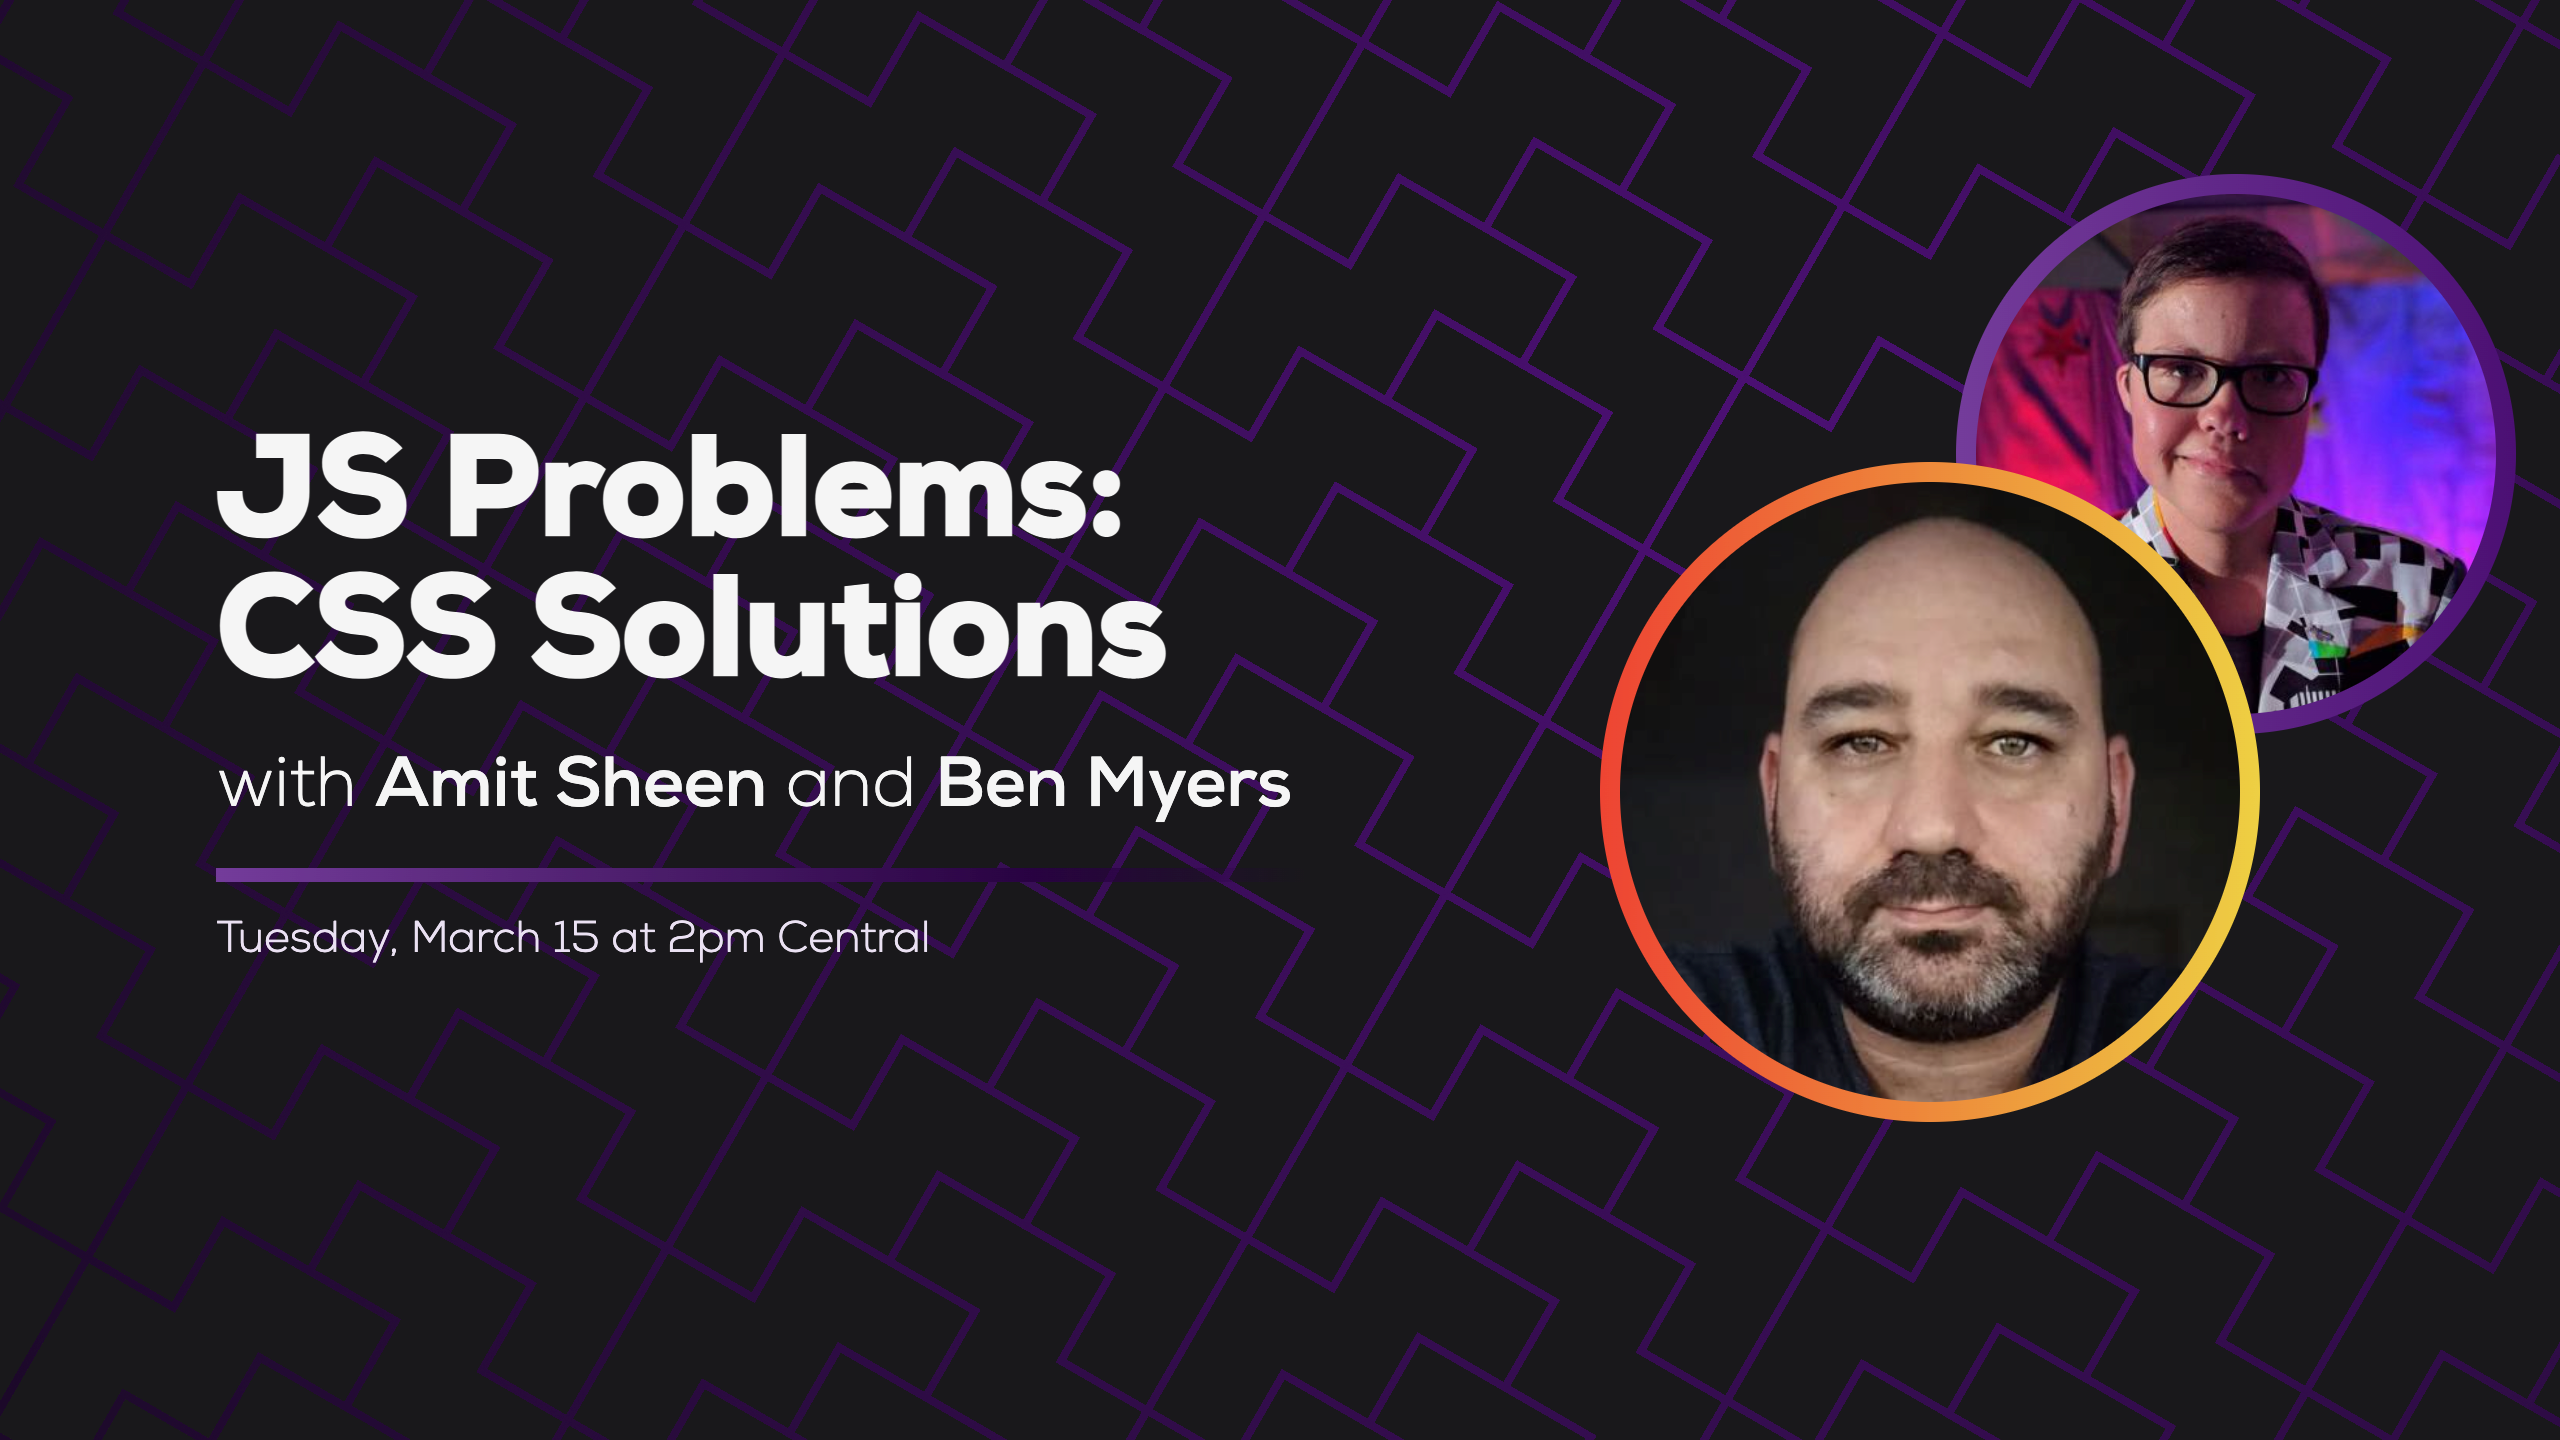
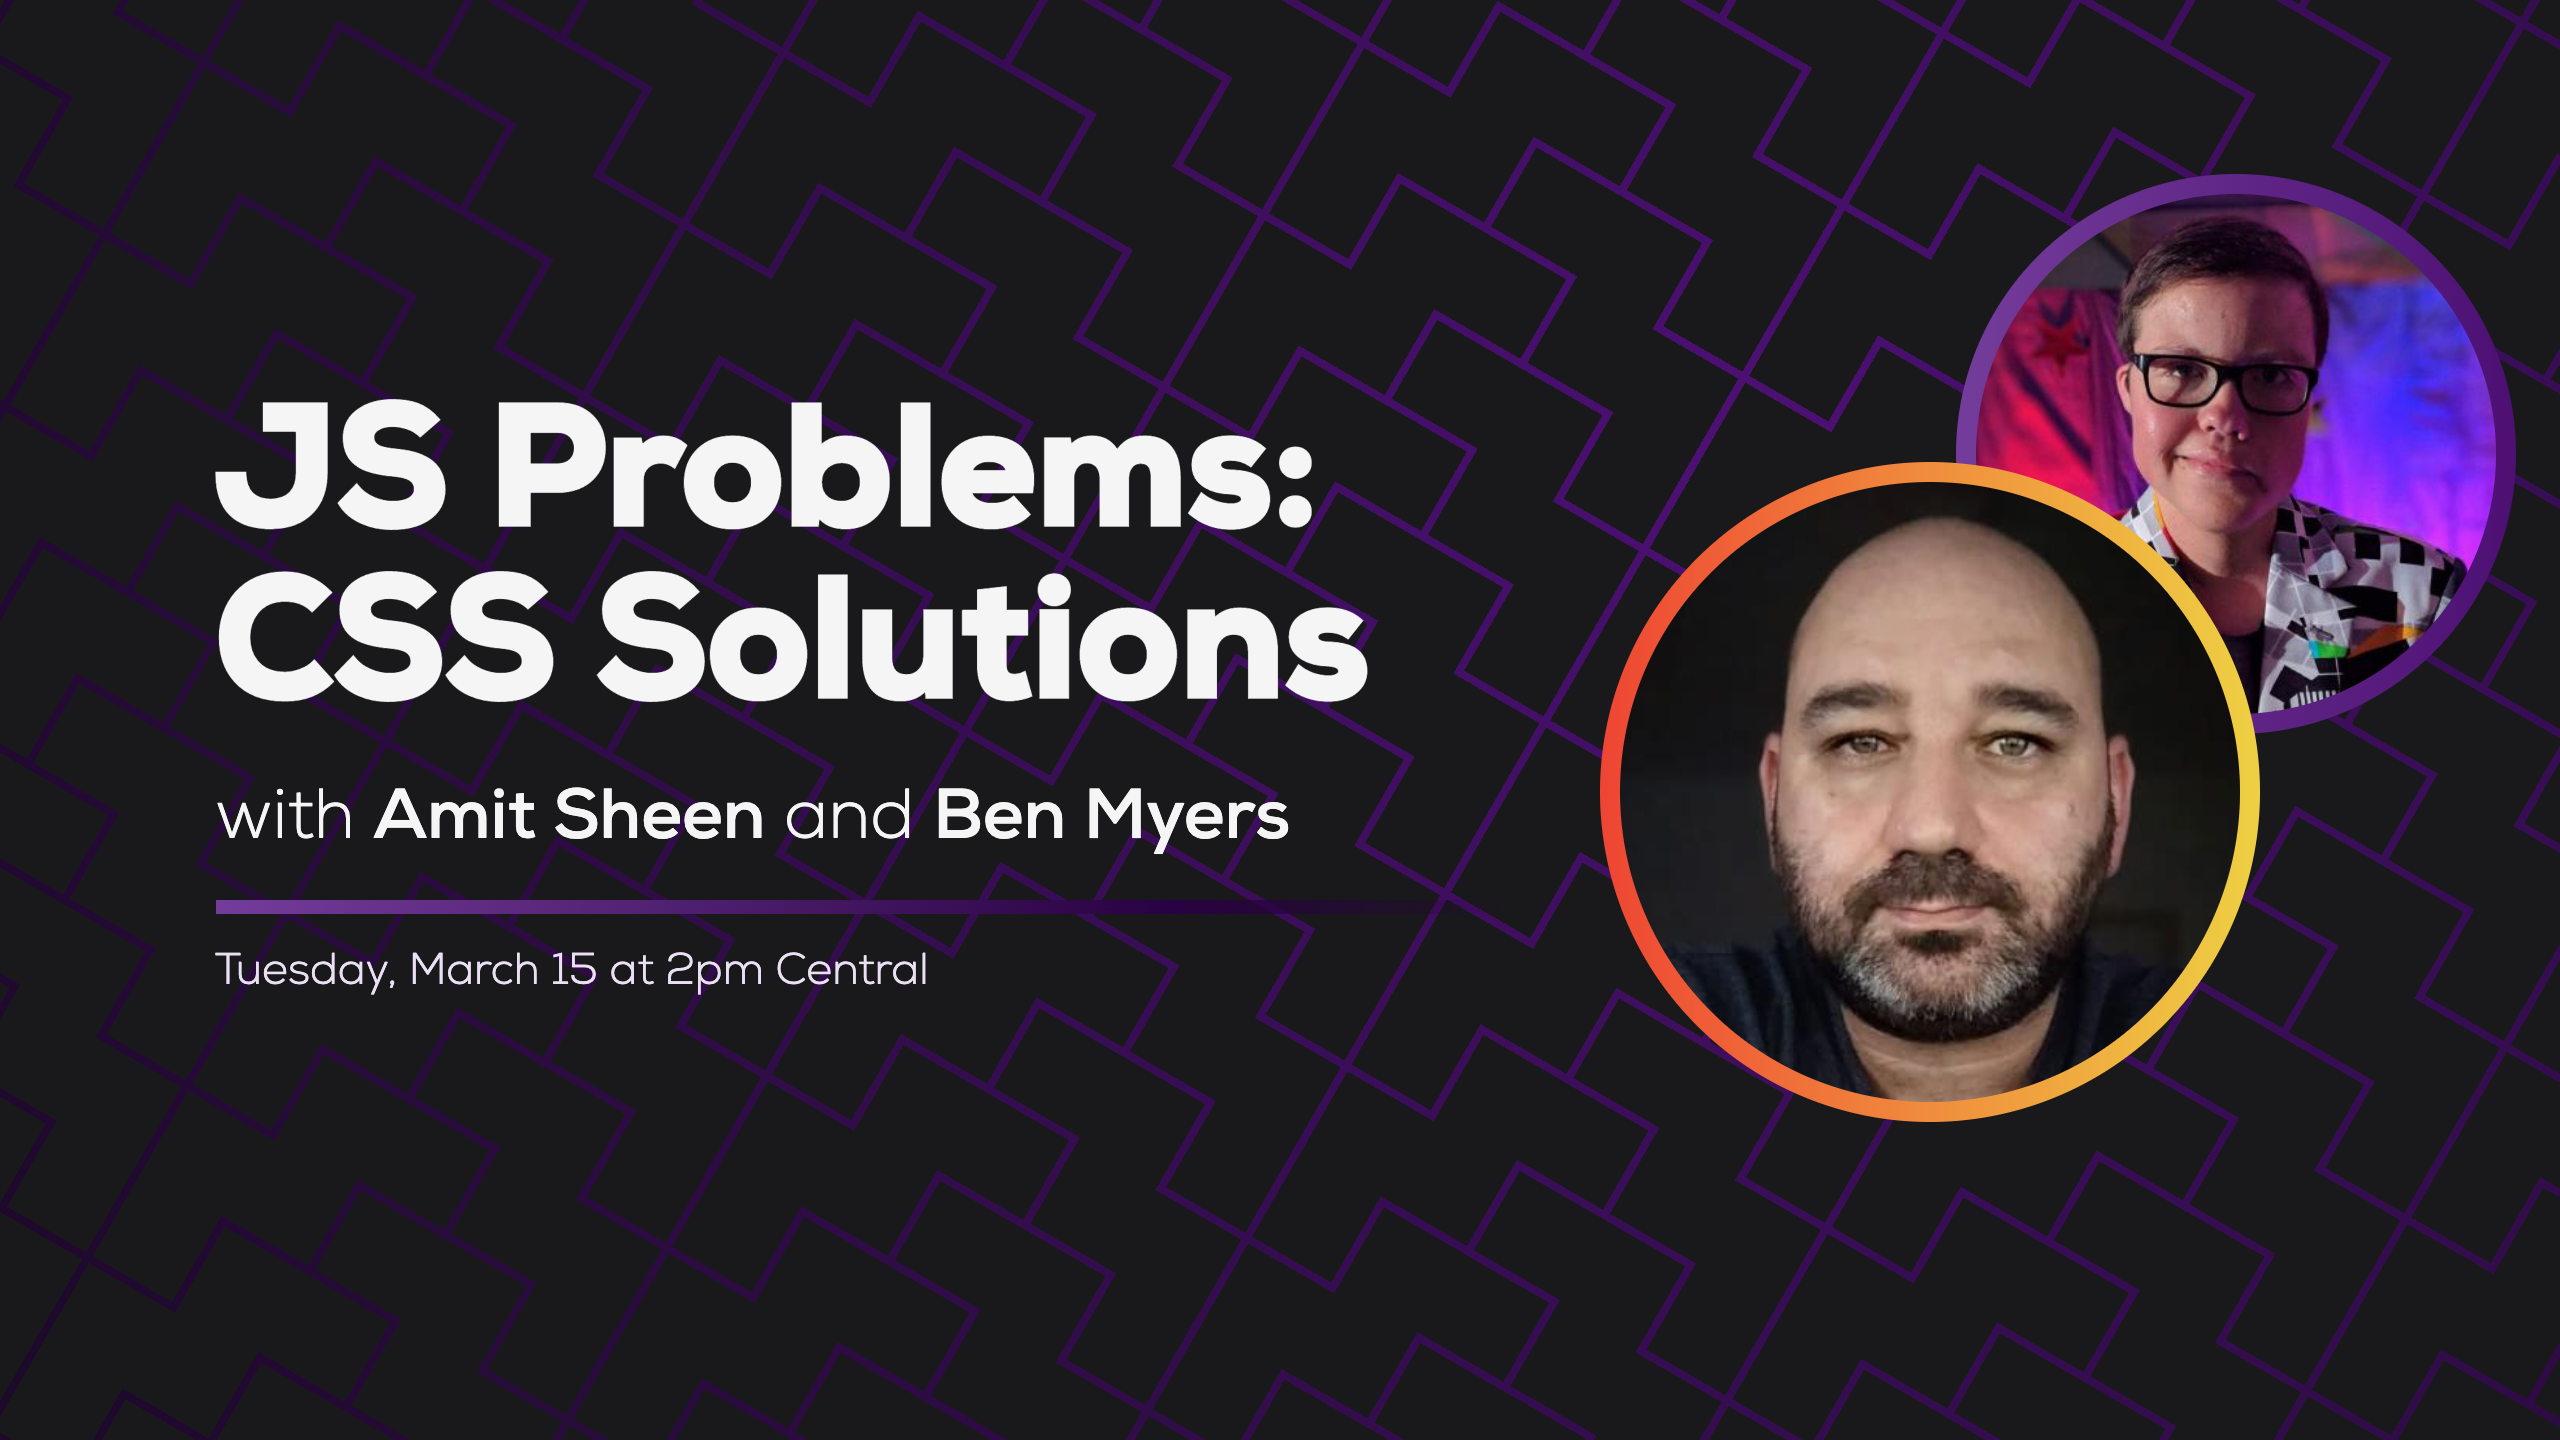
Add Chris Ferdinandi's Minesweeper stream

Changed region(s): [[0.0625, 0.2812, 0.5312, 0.5], [0.0625, 0.5312, 0.5, 0.6875]]

diff --git a/src/thumbnail.html b/src/thumbnail.html
@@ -136,12 +136,12 @@
 <body>
 	<div class="flex">
 		<header>
-			<h1>Build Design Systems<br/>with Web Components</h1>
-			<p id="hosts">with <b>m4dz</b> and <b>Ben Myers</b></p>
-			<footer>Tuesday, May 31 at 2pm Central</footer>
+			<h1>Accessible<br/>Minesweeper</h1>
+			<p id="hosts">with <b>Chris Ferdinandi</b> and <b>Ben Myers</b></p>
+			<footer>Tuesday, May 10 at 2pm Central</footer>
 		</header>
 		<main>
-			<img id="avatar-1" src="{{ 'm4dz' | avatar: profiles }}" alt="" />
+			<img id="avatar-1" src="{{ 'Chris Ferdinandi' | avatar: profiles }}" alt="" />
 			<div class="ring"></div>
 			<img id="avatar-2" src="{{ 'Ben Myers' | avatar: profiles }}" alt="" />
 			<div class="ring"></div>

diff --git a/src/streams/2022-05-10-minesweeper.md b/src/streams/2022-05-10-minesweeper.md
@@ -1,0 +1,22 @@
+---
+title: Build an Accessible Minesweeper Game with Vanilla JavaScript, with Chris Ferdinandi
+thumbnailTitle: Accessible Minesweeper
+hosts:
+  - Ben Myers
+  - Chris Ferdinandi
+tags:
+  - Web Accessibility
+  - Web Platform
+---
+
+The web platform is really, really strong, and we can build a lot with our core web technologies, without needing the help of frameworks. JavaScript educator [Chris Ferdinandi](https://twitter.com/ChrisFerdinandi) joins the stream to build a lightweight, accessible Minesweeper game — inspired by [Monsters, Inc.](https://en.wikipedia.org/wiki/Monsters%2C_Inc.), naturally — using vanilla JavaScript!
+
+Chris Ferdinandi helps people learn vanilla JavaScript, and believes there’s a simpler, more resilient way to make things for the web. His developer tips newsletter is read by thousands of developers each weekday.
+
+---
+
+## More From Chris
+
+- [Follow Chris on Twitter](https://twitter.com/ChrisFerdinandi)
+- [Subscribe to Chris's daily developer tips newsletter](https://gomakethings.com)
+- [Vanilla JS Toolkit](https://vanillajstoolkit.com/)
